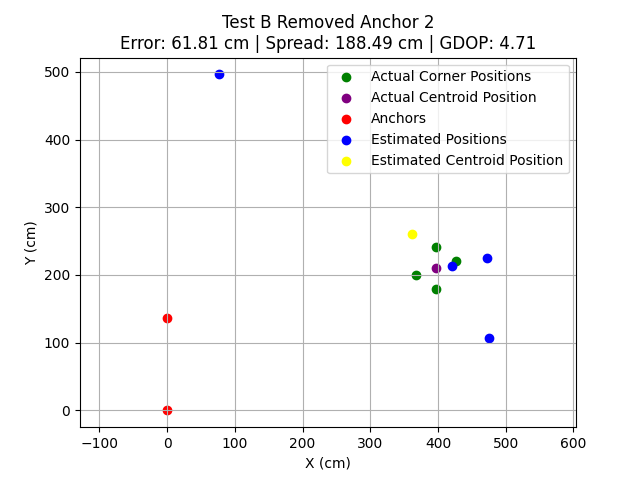
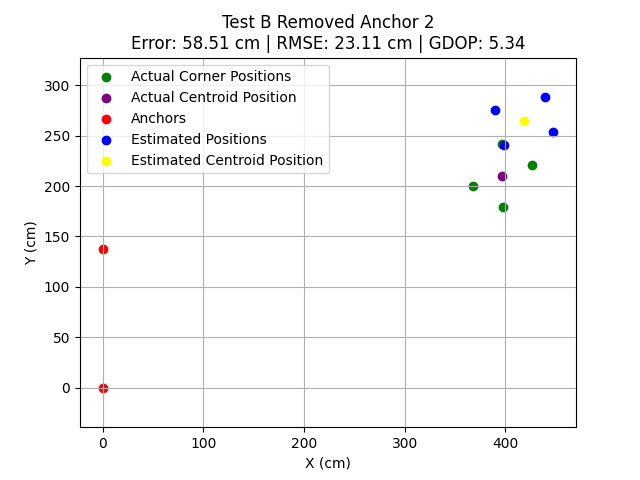
new pretty plots

diff --git a/scripts/pos_analysis.py b/scripts/pos_analysis.py
@@ -129,20 +129,68 @@ def residuals(pos, anchors, distances):
 
     return res
 
+def robot_residuals(params, anchors, measured_distances):
+    x, y, theta = params
+
+    local_corners = [
+        (0, -CHASSIS_WIDTH_CM/2),   # bottom-left
+        (0,  CHASSIS_WIDTH_CM/2),   # top-left
+        (CHASSIS_LENGTH_CM, -CHASSIS_WIDTH_CM/2),  # bottom-right
+        (CHASSIS_LENGTH_CM,  CHASSIS_WIDTH_CM/2)    # top-right
+    ]
+
+    residuals = []
+
+    for i, (cx, cy) in enumerate(local_corners):
+        rx = cx * np.cos(theta) - cy * np.sin(theta) + x
+        ry = cx * np.sin(theta) + cy * np.cos(theta) + y
+
+        for (ax, ay), d_meas in zip(anchors, measured_distances[i]):
+            d_pred = np.sqrt((rx - ax)**2 + (ry - ay)**2)
+            residuals.append(d_pred - d_meas)
+
+    return residuals
 
 def estimate_position(anchors, distances, initial_guess=(0, 0), cal_params=None):
-    anchors = np.array(anchors)
-    distances = np.array(distances)
+    """
+    anchors: list of (x,y), length = A
+    distances: list of lists -> shape (C corners, A anchors)
+    cal_params: list of (m,b) per anchor OR per sensor channel
+    """
 
+    n_anchors = len(anchors)
+
+    # ---- 1. Validate input shape ----
+    for i, d in enumerate(distances):
+        if len(d) != n_anchors:
+            raise ValueError(
+                f"Corner {i}: expected {n_anchors} distances, got {len(d)}"
+            )
+
+    # ---- 2. Apply calibration safely ----
     if cal_params is not None:
-        distances = np.array([
-            (d - b) / m
-            for d, (m, b) in zip(distances, cal_params)
-        ])
+        if len(cal_params) != n_anchors:
+            raise ValueError(
+                f"Calibration mismatch: {len(cal_params)} cal params but {n_anchors} anchors"
+            )
 
+        calibrated = []
+        for corner_dists in distances:
+            calibrated_corner = [
+                (d - b) / m
+                for d, (m, b) in zip(corner_dists, cal_params)
+            ]
+            calibrated.append(calibrated_corner)
+
+        distances = calibrated
+
+    # ---- 3. DO NOT convert to numpy (important) ----
+    # Keep as pure Python lists to avoid shape corruption
+
+    # ---- 4. Solve ----
     result = least_squares(
-        residuals,
-        x0=np.array(initial_guess),
+        robot_residuals,
+        x0=[initial_guess[0], initial_guess[1], 0],
         args=(anchors, distances)
     )
 
@@ -264,11 +312,12 @@ def analyze_test(input_file, plot_title, remove_anchors=None, remove_corners=Non
     if use_cal:
         cal_params = parse_calibration(f"{DATA_FILE_DIR}cal_id0.txt", f"{DATA_FILE_DIR}cal_id1.txt", f"{DATA_FILE_DIR}cal_id2.txt")
 
-    corner_dist = []
-    for d in corner_data:
-        corner_dist.append(
-            estimate_position(anchors, d, initial_guess=(centroid_true[0], centroid_true[1]), cal_params=cal_params)
-        )
+    x, y, theta = estimate_position(
+        anchors,
+        corner_data,
+        initial_guess=(centroid_true[0], centroid_true[1]),
+        cal_params=cal_params
+    )
 
     x_anchors = [point[0] for point in anchors]
     y_anchors = [point[1] for point in anchors]
@@ -276,18 +325,42 @@ def analyze_test(input_file, plot_title, remove_anchors=None, remove_corners=Non
     x_true_corners = [point[0] for point in corners_true]
     y_true_corners = [point[1] for point in corners_true]
 
-    x_est_corners = [point[0] for point in corner_dist]
-    y_est_corners = [point[1] for point in corner_dist]
-    x_est_centroid = np.mean(x_est_corners)
-    y_est_centroid = np.mean(y_est_corners)
+    local_corners = [
+        (0, -CHASSIS_WIDTH_CM/2),   # bottom-left
+        (0,  CHASSIS_WIDTH_CM/2),   # top-left
+        (CHASSIS_LENGTH_CM, -CHASSIS_WIDTH_CM/2),  # bottom-right
+        (CHASSIS_LENGTH_CM,  CHASSIS_WIDTH_CM/2)    # top-right
+    ]
+
+    x_est_corners = []
+    y_est_corners = []
+
+    for cx, cy in local_corners:
+        rx = cx*np.cos(theta) - cy*np.sin(theta) + x
+        ry = cx*np.sin(theta) + cy*np.cos(theta) + y
+
+        x_est_corners.append(rx)
+        y_est_corners.append(ry)
+        
+    centroid_local = (CHASSIS_LENGTH_CM/2, 0)
+
+    x_est_centroid = (
+        centroid_local[0] * np.cos(theta)
+        - centroid_local[1] * np.sin(theta)
+        + x
+    )
+
+    y_est_centroid = (
+        centroid_local[0] * np.sin(theta)
+        + centroid_local[1] * np.cos(theta)
+        + y
+)
 
     centroid_err = distance((x_est_centroid, y_est_centroid), centroid_true)
-    spread = np.mean([
-        distance((x, y), (x_est_centroid, y_est_centroid))
-        for x, y in zip(x_est_corners, y_est_corners)
-    ])
-    gdop = compute_gdop(anchors, centroid_true)
-    output_stats = f"Error: {centroid_err:.2f} cm | Spread: {spread:.2f} cm | GDOP: {gdop:.2f}"
+    res = robot_residuals([x, y, theta], anchors, corner_data)
+    rmse = np.sqrt(np.mean(np.square(res)))
+    gdop = compute_gdop(anchors, (x_est_centroid, y_est_centroid))
+    output_stats = f"Error: {centroid_err:.2f} cm | RMSE: {rmse:.2f} cm | GDOP: {gdop:.2f}"
     print(output_stats)
 
     plt.scatter(x_true_corners, y_true_corners, color="green", label="Actual Corner Positions")
@@ -345,6 +418,7 @@ analyze_test("test_a.txt", "Test A Removed Anchor 1", 1)
 analyze_test("test_a.txt", "Test A Removed Anchor 2", 2)
 
 analyze_test("test_b.txt", "Test B All")
+analyze_test("test_b.txt", "Test B All (Calibrated)", use_cal=True)
 analyze_test("test_b.txt", "Test B Removed Anchor 0", 0)
 analyze_test("test_b.txt", "Test B Removed Anchor 1", 1)
 analyze_test("test_b.txt", "Test B Removed Anchor 2", 2)
